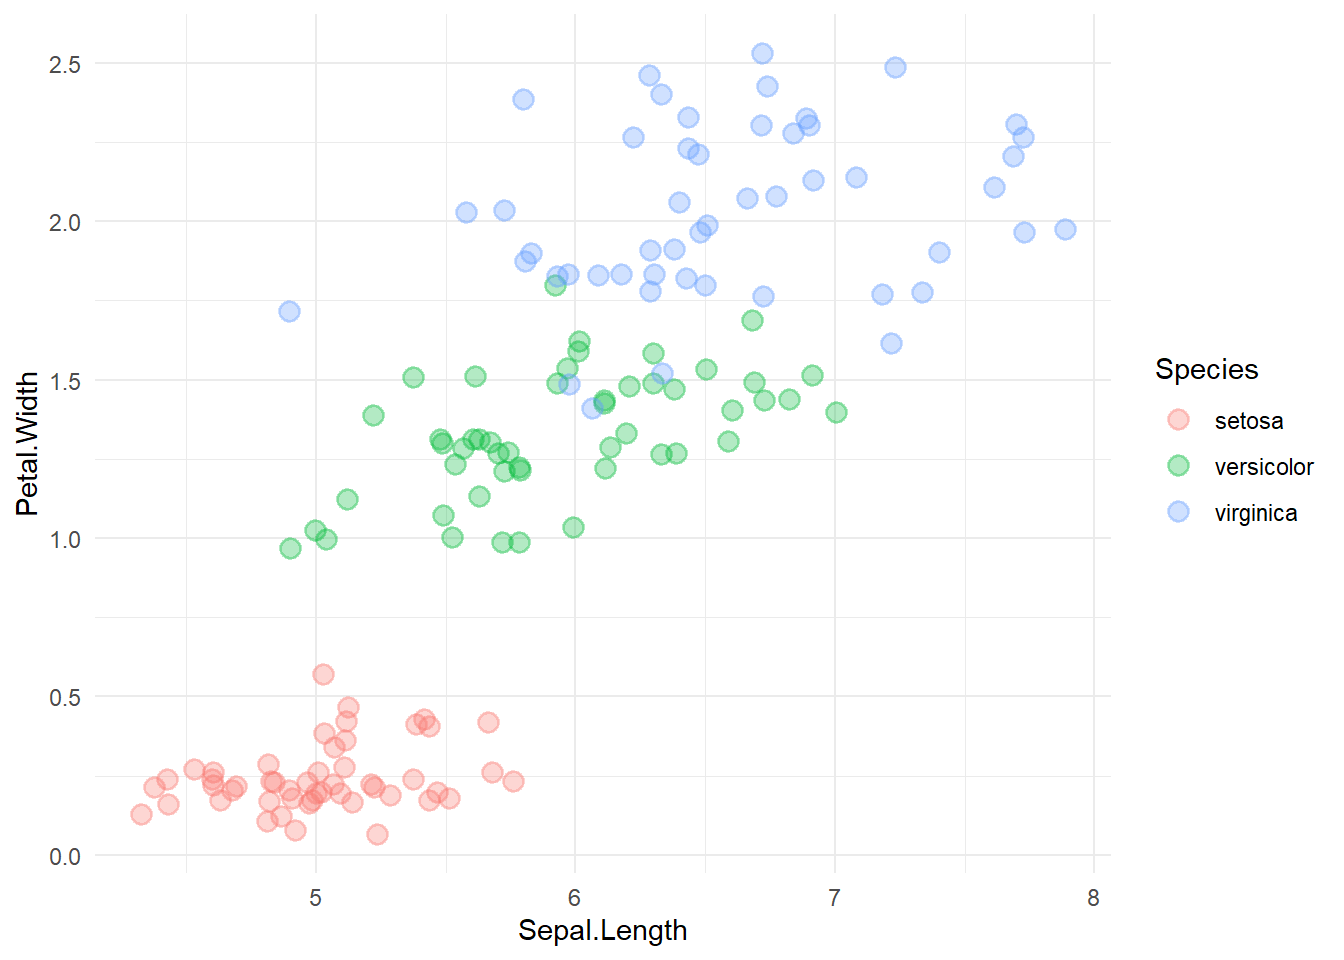
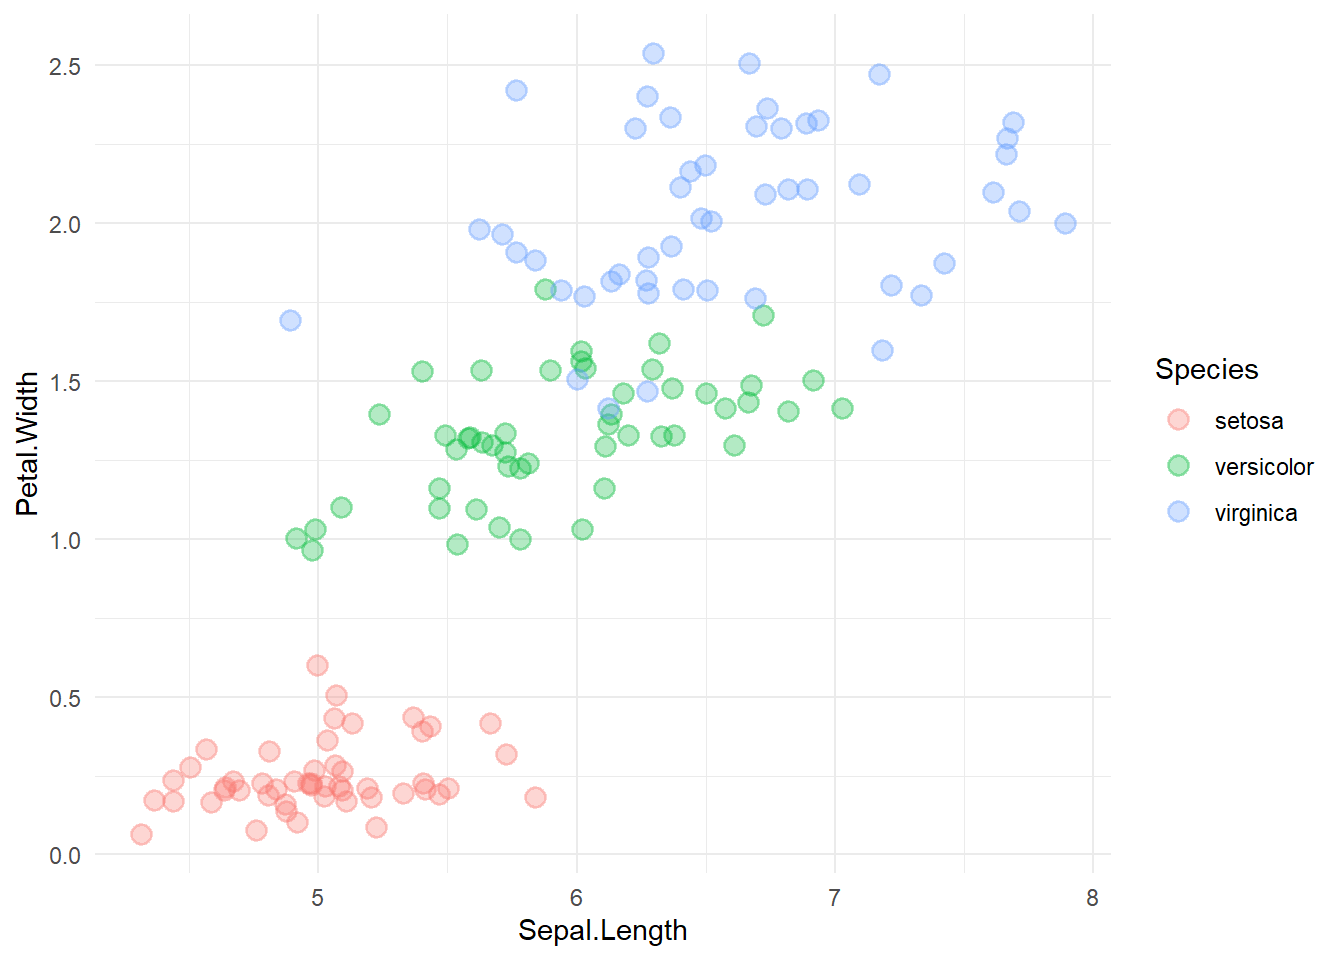
actualzacion excel XY

diff --git a/docs/posts/excel-xy/index.html b/docs/posts/excel-xy/index.html
@@ -246,8 +246,8 @@ code span.wa { color: #60a0b0; font-weight: bold; font-style: italic; } /* Warni
 <p><img src="excel-td-promedio.png" class="img-fluid"></p>
 <p>Esta tabla ya nos permite representar pares de valores. Como hemos visto, si intentamos insertar un gráfico dinámico XY, Excel nos devuelve un mensaje advirtiendo que no es posible presentar este gráfico.</p>
 <p><img src="excel-mensaje-xy.png" class="img-fluid"></p>
-<p>El único gráfico de puntos que podríamos insertar como gráfico dinámico es un gráfico de líneas y puntos al que podemos borrar las líneas de forma que sólo queden los puntos, Pero este gráfico no es el que buscamos, porque presenta los valores X siguiendo la secuencia que tienen los números en la fila de la tabla dinámica,, sin respetar que la distancia entre los valores y los intervalos se correspondan con la magnitud del valor numérico.</p>
-<p>Si observamos el gráfico, vemos que los valores al principio del eje X se separan 0,2 unidades, mientras que los últimos valores se separan 0,3 unidades. Esto hace que la escala horizontal no se respete correctamente., y convierte el gráfico en falso.</p>
+<p>El único gráfico de puntos que podríamos insertar como gráfico dinámico es un gráfico de líneas y puntos al que podemos borrar las líneas de forma que sólo queden los puntos, Pero este gráfico no es el que buscamos, porque presenta los valores X siguiendo la secuencia que tienen los números en la fila de la tabla dinámica,, y no respeta que la distancia entre los valores (los intervalos) se corresponda con la magnitud del valor numérico.</p>
+<p>Si observamos el gráfico, vemos que los valores al principio del eje X se separan 0,2 unidades, mientras que los últimos valores se separan 0,3 unidades. Esto hace que la escala horizontal no se respete correctamente; el gráfico no es válido.</p>
 <p><img src="excel-graf-dinamico.png" class="img-fluid"></p>
 <p>Para conseguir un gráfico XY verdadero, en el que ambos ejes respeten la posición de los valores según su magnitud, empezamos insertando un gráfico XY en blanco a la derecha de la tabla dinámica. Para ello, colocamos el cursor dos columnas a la derecha de la tabla dinámica e insertamos un nuevo gráfico XY, que nos aparecerá como un marco en blanco, ya que no hemos establecido ningún rango de datos. Esto es lo que haremos a continuación.</p>
 <p><img src="excel-crear-series-0.png" class="img-fluid"></p>
@@ -303,7 +303,7 @@ code span.wa { color: #60a0b0; font-weight: bold; font-style: italic; } /* Warni
 <p>Esa es una de la grandes ventajas del código R: la reproducibilidad de los informes, y una de las razones para promover su utilización no sólo en el mundo de la investigación y la Universidad, sino en la empresa en general.</p>
 <section id="para-probar" class="level2">
 <h2 class="anchored" data-anchor-id="para-probar">Para probar</h2>
-<p>Al construir las columnas de valores modificados, vimos que el efecto del cálculo sobre la posición de cada valor es prácticamente inapreciable, debido a que la secuencia aleatoria empieza sólo en el tercer decimal. Modificando el factor de multiplicación y división las fórmulas de las columnas calculadas, podemos aumentar el efecto de <code>jitter</code> en caso de que el solapamiento sea excesivo. Si recalculamos manualmente la tabla dinámica podremos ver el efecto producido por la modificación de los decimales y decidir si el efecto es bajo, excesivo, o es el que queremos.</p>
+<p>Al construir las columnas de valores modificados, vimos que el efecto del cálculo sobre la posición de cada valor es prácticamente inapreciable, debido a que la secuencia aleatoria empieza sólo en el tercer decimal. Modificando el factor de multiplicación y división en las fórmulas de las columnas calculadas, podemos aumentar el efecto de <code>jitter</code> en caso de que el solapamiento sea excesivo. Si recalculamos manualmente la tabla dinámica podremos ver el efecto producido por la modificación de los decimales y decidir si el efecto es bajo, excesivo, o es el que queremos.</p>
 
 
 </section>

diff --git a/docs/index.html b/docs/index.html
@@ -158,7 +158,7 @@ ul.task-list li input[type="checkbox"] {
 
 <div class="quarto-listing quarto-listing-container-default" id="listing-listing">
 <div class="list quarto-listing-default">
-<div class="quarto-post image-right" data-index="0" data-listing-date-sort="1674860400000" data-listing-file-modified-sort="1674852613821" data-listing-reading-time-sort="10.78">
+<div class="quarto-post image-right" data-index="0" data-listing-date-sort="1674860400000" data-listing-file-modified-sort="1674853175950" data-listing-reading-time-sort="10.78">
 <div class="thumbnail">
 <p><a href="./posts/excel-xy/index.html"> <img src="./posts/excel-xy/excel-tabla-iris.png" class="thumnail-image"> </a></p>
 </div>
